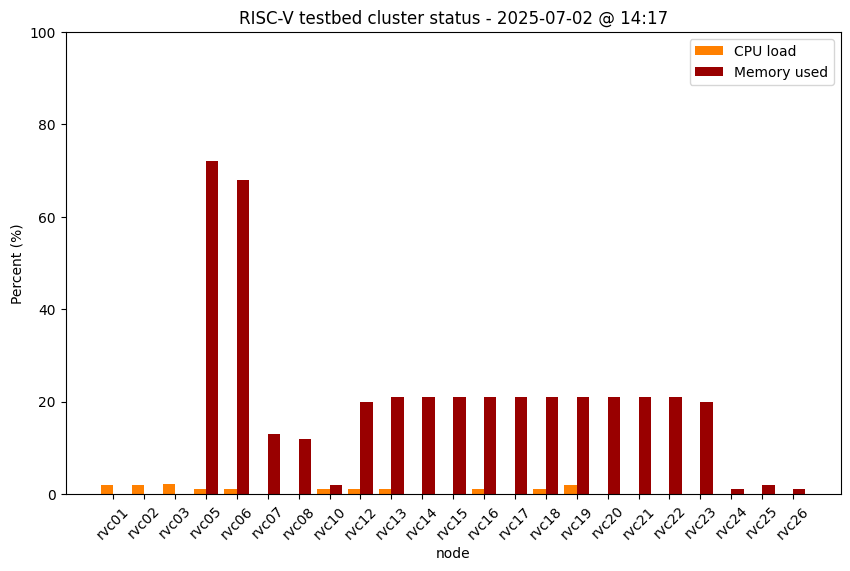
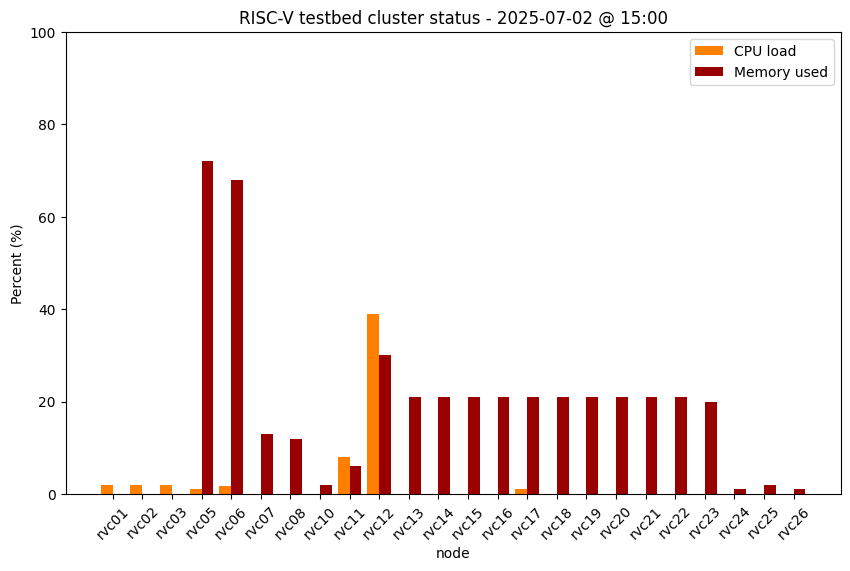
Update cluster status

Changed region(s): [[0.1529, 0.268, 0.9482, 0.9527], [0.7341, 0.0, 0.7953, 0.0595]]

diff --git a/status.md b/status.md
@@ -23,7 +23,7 @@ permalink: /status/
 | StarFive VisionFive V1 #2 | rvc08 | 2 | 8GB | <img src="/images/on.png" alt="green light" width="10"/> up |
 | StarFive VisionFive V1 #3 | rvc09 | 2 | 8GB | <img src="/images/amber.png" alt="amber light" width="10"/> offline |
 | HiFive Unmatched  | rvc10 | 4 | 16GB | <img src="/images/on.png" alt="green light" width="10"/> up |
-| StarFive VisionFive V2 #1 | rvc11 | 4 | 8GB | <img src="/images/off.png" alt="red light" width="10"/> down |
+| StarFive VisionFive V2 #1 | rvc11 | 4 | 8GB | <img src="/images/on.png" alt="green light" width="10"/> up |
 | StarFive VisionFive V2 #2 | rvc12 | 4 | 8GB | <img src="/images/on.png" alt="green light" width="10"/> up |
 | StarFive VisionFive V2 #3 | rvc13 | 4 | 8GB | <img src="/images/on.png" alt="green light" width="10"/> up |
 | StarFive VisionFive V2 #4 | rvc14| 4 | 8GB | <img src="/images/on.png" alt="green light" width="10"/> up |
